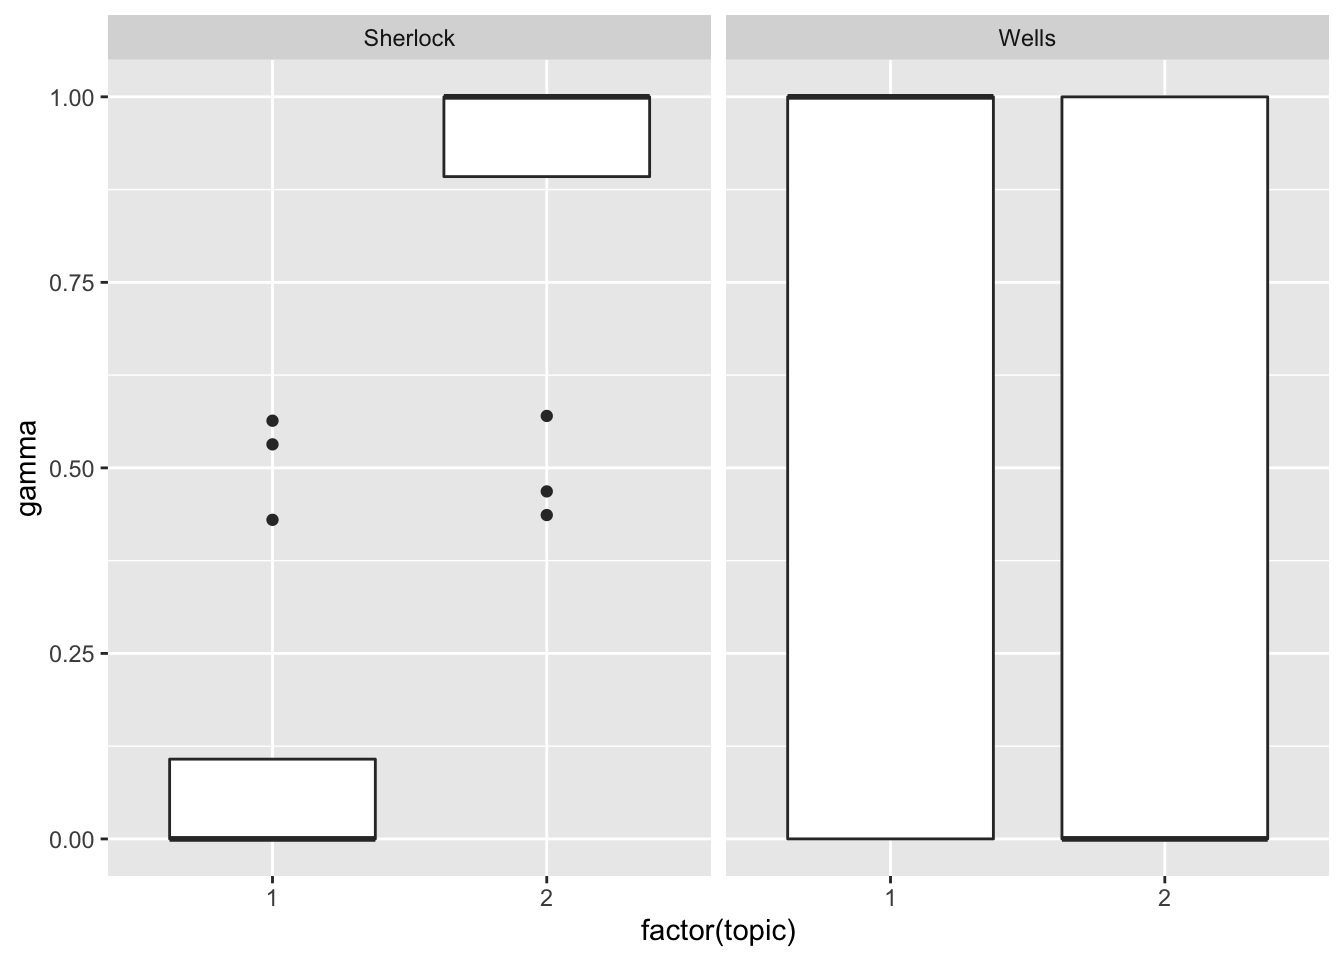
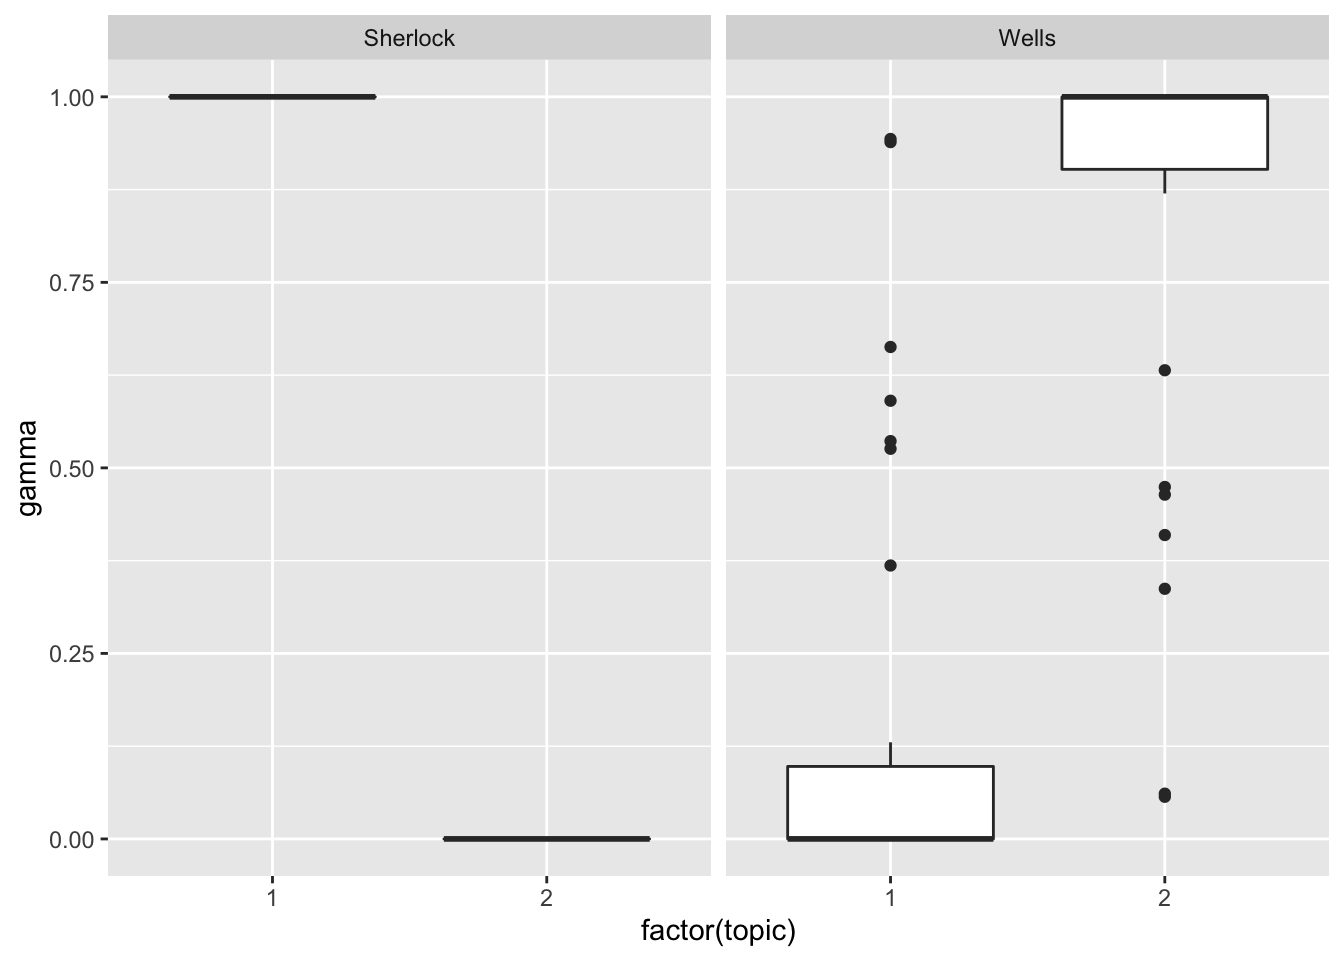
Fixing some links and adding a final paragraph

diff --git a/content/post/2019-07-13-exploring-text-mining-with-project-gutenberg.html b/content/post/2019-07-13-exploring-text-mining-with-project-gutenberg.html
@@ -9,10 +9,10 @@ tags: []
 
 
 
-<p>I have recently read (Text Mining with R)[<a href="https://www.tidytextmining.com/" class="uri">https://www.tidytextmining.com/</a>] and thought I would use their approach for some text analysis in R.</p>
-<p>I love Arthur Conan Doyle’s Sherlock Holmes novels so I started by downloading the text for ‘The Adventures of Sherlock Holmes’ from (Project Gutenberg)[<a href="https://www.gutenberg.org/" class="uri">https://www.gutenberg.org/</a>]. This book contains 12 short stories.</p>
-<p>Since writing this blog post, I have discovered that Julia Silge, one of the authors of Text Mining with R, analysed these Sherlock Holmes novels and (blogged brilliantly about them)[<a href="https://juliasilge.com/blog/sherlock-holmes-stm/" class="uri">https://juliasilge.com/blog/sherlock-holmes-stm/</a>] in Jan 2018! There are overlaps between her post and mine but she is mainly discussing the STM package for topic modelling.</p>
-<p>In this first block, each line in the text is labelled by the short story it belongs to. A regex is used to look for Roman Numerals from I to XII. The titles are tidied up a bit using <em>stringr</em> functions. I use the <em>tidytext</em> package to tokenise the text, remove stopwords and calculate term frequencies. Finally, I plot the most frequent terms for each short story.</p>
+<p>I have recently read <a href="https://www.tidytextmining.com/">Text Mining with R</a> and thought I would use their approach for some text analysis in R.</p>
+<p>I love Arthur Conan Doyle’s Sherlock Holmes novels so I started by downloading the text for ‘The Adventures of Sherlock Holmes’ from <a href="https://www.gutenberg.org/">Project Gutenberg</a>. This book contains 12 short stories.</p>
+<p>Since writing this blog post, I have discovered that Julia Silge, one of the authors of Text Mining with R, analysed these Sherlock Holmes novels and <a href="https://juliasilge.com/blog/sherlock-holmes-stm/">blogged brilliantly about them</a> in Jan 2018! There are overlaps between her post and mine but she is mainly discussing the STM package for topic modelling.</p>
+<p>In this first block, each line in the text is labelled by the short story it belongs to. A regex is used to look for Roman Numerals from I to XII. The titles are tidied up a bit using <strong>stringr</strong> functions. I use the <strong>tidytext</strong> package to tokenise the text, remove stopwords and calculate term frequencies. Finally, I plot the most frequent terms for each short story.</p>
 <p>The plot shows ‘Holmes’ (unsurprisingly) occurs most frequently in most stories but other words are descriptive of each story. For example, the names of various characters - ‘Irene’ and ‘Adler’ for ‘A Scandal in Bohemia’ and the ‘Rucastle’ in ‘The Adventure of the copper beeches’.</p>
 <pre class="r"><code>  sherlock &lt;- gutenberg_download(1661)</code></pre>
 <pre><code>## Determining mirror for Project Gutenberg from http://www.gutenberg.org/robot/harvest</code></pre>
@@ -49,7 +49,7 @@ tags: []
     theme(strip.text = element_text(size = 8))</code></pre>
 <pre><code>## Selecting by n</code></pre>
 <p><img src="/post/2019-07-13-exploring-text-mining-with-project-gutenberg_files/figure-html/sherlock-1.png" width="672" /></p>
-<p>I use another tidytext function (<em>bind_tf_idf</em>) to calculate the term frequency * inverse document frequency (tf-idf) for each term in each short story. I then create a plot to show the terms for each book with the highest tf-idf scores. My son came to have a look at this plot and pointed out that I need to order the facets by Roman Numerals not alphabetically, that could be a future improvement! Notice that the term ‘Holmes’ does not have a high tf-idf score for any of the stories because ‘Holmes’ is found frequently in all stories. If we compare the terms with highest term frequency to those with highest tf-idf score for ‘A Scandal in Bohemia’ then we can see that ‘house’, ‘street’ and ‘door’ have high term frequency but not high tf-idf scores because they occur in all stories.</p>
+<p>I use another tidytext function (<strong>bind_tf_idf</strong>) to calculate the term frequency * inverse document frequency (tf-idf) for each term in each short story. I then create a plot to show the terms for each book with the highest tf-idf scores. My son came to have a look at this plot and pointed out that I need to order the facets by Roman Numerals not alphabetically, that could be a future improvement! Notice that the term ‘Holmes’ does not have a high tf-idf score for any of the stories because ‘Holmes’ is found frequently in all stories. If we compare the terms with highest term frequency to those with highest tf-idf score for ‘A Scandal in Bohemia’ then we can see that ‘house’, ‘street’ and ‘door’ have high term frequency but not high tf-idf scores because they occur in all stories.</p>
 <pre class="r"><code>  sherlock_tf_idf &lt;- sherlock_word_counts %&gt;%
     bind_tf_idf(word, book, n)
 
@@ -65,7 +65,7 @@ tags: []
     theme(strip.text = element_text(size = 8))</code></pre>
 <pre><code>## Selecting by tf_idf</code></pre>
 <p><img src="/post/2019-07-13-exploring-text-mining-with-project-gutenberg_files/figure-html/tfidf-1.png" width="672" /></p>
-<p>I decided to investigate the sentiment of the terms with highest tf-idf scores. I used an inner join to word sentiments because most terms in each story will not have a sentiment associated with them. The plot shows the top 10 terms by highest tf-idf (which also have an associated sentiment) for each story, colour is used to indicate sentiment. Looking at the (story summaries on Wikipedia)[<a href="https://en.wikipedia.org/wiki/The_Adventures_of_Sherlock_Holmes#Stories" class="uri">https://en.wikipedia.org/wiki/The_Adventures_of_Sherlock_Holmes#Stories</a>] and comparing with the plot, it appears that stories with more negative themes such as murder have more negative high tf-idf terms than those about more light-hearted themed stories. For example, ‘The five orange pips’ is about murders carried out by the KKK whereas ‘The adventure of the blue carbuncle’ is about a stolen gem!</p>
+<p>I decided to investigate the sentiment of the terms with highest tf-idf scores. I used an inner join to word sentiments because most terms in each story will not have a sentiment associated with them. The plot shows the top 10 terms by highest tf-idf (which also have an associated sentiment) for each story, colour is used to indicate sentiment. Looking at the <a href="https://en.wikipedia.org/wiki/The_Adventures_of_Sherlock_Holmes#Stories">story summaries on Wikipedia</a> and comparing with the plot, it appears that stories with more negative themes such as murder have more negative high tf-idf terms than those about more light-hearted themed stories. For example, ‘The five orange pips’ is about murders carried out by the KKK whereas ‘The adventure of the blue carbuncle’ is about a stolen gem!</p>
 <pre class="r"><code>  with_sentiments &lt;- sherlock_tf_idf %&gt;%
     inner_join(get_sentiments(&quot;bing&quot;))</code></pre>
 <pre><code>## Joining, by = &quot;word&quot;</code></pre>
@@ -81,7 +81,7 @@ tags: []
     theme(strip.text = element_text(size = 8),
           legend.position = &quot;bottom&quot;)</code></pre>
 <p><img src="/post/2019-07-13-exploring-text-mining-with-project-gutenberg_files/figure-html/tf-idf-with-sentiments-1.png" width="672" /></p>
-<p>Using the <em>wordcloud</em> library to generate a wordcloud of the most popular terms in the 12 short stories.</p>
+<p>Using the <strong>wordcloud</strong> library to generate a wordcloud of the most popular terms in the 12 short stories.</p>
 <pre class="r"><code>  sherlock_word_counts_grouped &lt;- tidy_sherlock %&gt;%
     count(word, sort=TRUE) 
 
@@ -92,7 +92,7 @@ tags: []
             max.words = 100,  
             colors = pal)</code></pre>
 <p><img src="/post/2019-07-13-exploring-text-mining-with-project-gutenberg_files/figure-html/wordcloud-1.png" width="672" /></p>
-<p>The <em>comparison.cloud</em> function can be used to compare the most common terms with positive sentiment to those with negative sentiment.</p>
+<p>The <strong>comparison.cloud</strong> function can be used to compare the most common terms with positive sentiment to those with negative sentiment.</p>
 <pre class="r"><code>  sherlock_word_counts_grouped %&gt;%
     inner_join(get_sentiments(&quot;bing&quot;)) %&gt;%
     acast(word ~ sentiment, value.var = &quot;n&quot;, fill = 0) %&gt;%
@@ -148,7 +148,7 @@ tags: []
 ## 10 Vii. The adventure of the blue carbuncle  0.173
 ## 11 I. A scandal in bohemia                   0.173
 ## 12 V. The five orange pips                   0.165</code></pre>
-<p>I thought it would be interesting to compare Arthur Conan Doyle short stories with those of H. G. Wells. I downloaded ‘Thirty Strange Stories’ from Project Gutenberg and did a bit of preprocessing in order to label each line of text with the story it belongs to. Just as with the Sherlock stories, I use <em>tidytext</em> functions to remove stopwords and get word counts.</p>
+<p>I thought it would be interesting to compare Arthur Conan Doyle short stories with those of H. G. Wells. I downloaded ‘Thirty Strange Stories’ from Project Gutenberg and did a bit of preprocessing in order to label each line of text with the story it belongs to. Just as with the Sherlock stories, I use <strong>tidytext</strong> functions to remove stopwords and get word counts.</p>
 <pre class="r"><code>  wells &lt;- gutenberg_download(59774)
 
   wells &lt;- wells %&gt;%
@@ -175,7 +175,7 @@ tags: []
 <pre class="r"><code>  wells_word_counts &lt;- tidy_wells %&gt;%
     group_by(book) %&gt;%
     count(word, sort=TRUE) </code></pre>
-<p>I use the <em>lda</em> function from the <em>topicmodels</em> library to take the 12 stories from Arthur Conan Doyle and the 30 stories from H G Wells and find just 2 topics. I was wondering whether the stories would be split into each topic. The plot shows that while all of the Sherlock stories are modelled by one topic and most of the Wells stories are modelled by the other topic, there are a few Wells stories that represented either by the ‘Sherlock’ topic or split between the two. This seems reasonable as The Adventures of Sherlock Holmes stories are all detective stories with the 2 main characters remaining the same whereas the H G Wells stories are more varied in topic and style. I think a future blog post could investigate these topics to look at what makes those Wells stories belong to the Sherlock topic.</p>
+<p>I use the <strong>lda</strong> function from the <strong>topicmodels</strong> library to take the 12 stories from Arthur Conan Doyle and the 30 stories from H G Wells and find just 2 topics. I was wondering whether the stories would be split into each topic. The plot shows that while all of the Sherlock stories are modelled by one topic and most of the Wells stories are modelled by the other topic, there are a few Wells stories that represented either by the ‘Sherlock’ topic or split between the two. This seems reasonable as The Adventures of Sherlock Holmes stories are all detective stories with the 2 main characters remaining the same whereas the H G Wells stories are more varied in topic and style. I think a future blog post could investigate these topics to look at what makes those Wells stories belong to the Sherlock topic.</p>
 <pre class="r"><code>  library(topicmodels)
 
   s_w_c &lt;- sherlock_word_counts %&gt;%
@@ -191,6 +191,7 @@ tags: []
   books_dtm &lt;- word_counts %&gt;%
     cast_dtm(book, word, n)
   
+  set.seed(5)
   lda &lt;- LDA(books_dtm, k = 2)
   
   topics &lt;- tidy(lda, matrix = &quot;beta&quot;)
@@ -209,3 +210,4 @@ tags: []
     geom_boxplot() +
     facet_wrap(~ author)</code></pre>
 <p><img src="/post/2019-07-13-exploring-text-mining-with-project-gutenberg_files/figure-html/lda-1.png" width="672" /></p>
+<p>As a note, I realised that the probability of books belonging to each topic varies between runs. I have set the seed here so that the results are reproducible but I think interesting further work would be to run <strong>lda</strong> many times and look at the uncertainty or to investigate whether this can already be done with the <strong>topicmodel</strong> package.</p>
